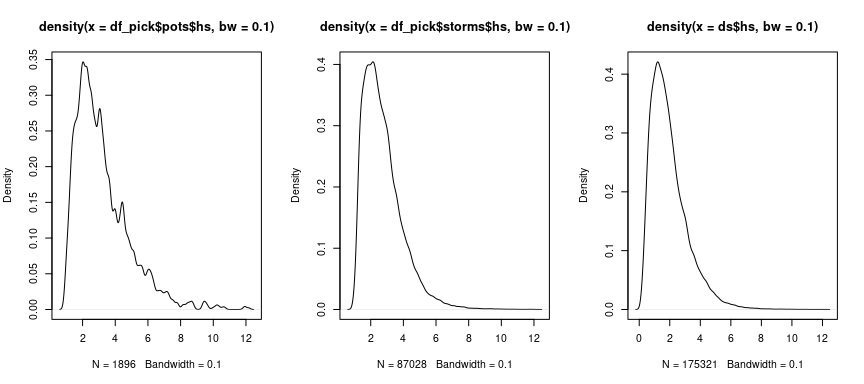
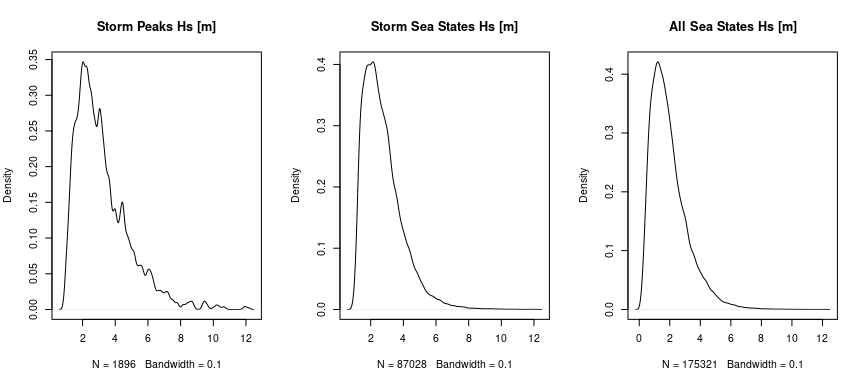
updated README

Changed region(s): [[0.375, 0.0312, 0.6562, 0.0938], [0.0312, 0.0312, 0.3125, 0.0938], [0.75, 0.0312, 0.9688, 0.0938]]

diff --git a/README.md b/README.md
@@ -52,7 +52,7 @@ system.time(df_pick <- peak_picking(ds, peak_picking_thr_model_fml,
     ## [1] "find peaks for combined storms"
 
     ##    user  system elapsed 
-    ##  23.433   0.867  24.302
+    ##  23.851   1.502  25.358
 
 ``` r
 # additional variables were added, i.e. exc, thr, and storm_idx
@@ -72,9 +72,9 @@ visualize_storm_picking(dfin = df_pick, dfinall = ds,
 
 ``` r
 par(mfrow = c(1, 3))
-plot(density(df_pick$pots$hs, bw=.1))
-plot(density(df_pick$storms$hs, bw=.1))
-plot(density(ds$hs, bw=.1))
+plot(density(df_pick$pots$hs, bw=.1), main="Storm Peaks Hs [m]")
+plot(density(df_pick$storms$hs, bw=.1), main="Storm Sea States Hs [m]")
+plot(density(ds$hs, bw=.1), main="All Sea States Hs [m]")
 ```
 
 ![](README_files/figure-gfm/unnamed-chunk-3-1.png)<!-- -->
@@ -83,7 +83,7 @@ plot(density(ds$hs, bw=.1))
 
 ``` r
 # number of bootstrap/resampling steps
-nbstrp <- 100  # e.g. nbstrp = 20 for testing
+nbstrp <- 5  # e.g. nbstrp = 20 for testing
 
 system.time(res_bstrp <- run_bootstrap_storms_pots(df = df_pick$storms,
                                                    group_col = "storm_idx",
@@ -92,7 +92,7 @@ system.time(res_bstrp <- run_bootstrap_storms_pots(df = df_pick$storms,
 ```
 
     ##    user  system elapsed 
-    ##  13.513   0.140  13.656
+    ##   0.686   0.000   0.686
 
 ``` r
 bstrp_storms_lst <- res_bstrp$boot_samples
@@ -124,6 +124,12 @@ plot(density(bstrp_pots_lst[[b+1]]$hs, bw=.1), xlim=c(0,15), ylim=c(0.,.5), main
 
 ![](README_files/figure-gfm/unnamed-chunk-6-1.png)<!-- -->
 
+## Cross-validation for best threshold range
+
+``` r
+# possibly some figure on cross-validation
+```
+
 ## Model the non-stationary storm peaks
 
 ``` r
@@ -142,20 +148,20 @@ nr_of_years <- 48
 thr_range <- list('hs'=c(.8,.9))
 
 # define models
-fml_pp <- ~ te(doy, Pdir, bs = c('cc', 'cc'), k = c(6,8))
-fml_gpd <- list(exc ~ te(doy, Pdir, k=c(6,8), bs=c("cc","cc")),
-                ~ te(doy, Pdir, k=c(6,8), bs=c("cc","cc")))
-fml_ald <- hs ~ te(doy, Pdir, bs=c("cc","cc"), k=c(6,8))
-fml_ald_tm2 <- tm2 ~ te(doy, Pdir, bs=c("cc","cc"), k=c(6,8))
+fml_pp <- ~ te(doy, Pdir, bs = c('cc', 'cc'), k = c(4,6))
+fml_gpd <- list(exc ~ te(doy, Pdir, k=c(4,6), bs=c("cc","cc")),
+                ~ te(doy, Pdir, k=c(4,6), bs=c("cc","cc")))
+fml_ald <- hs ~ te(doy, Pdir, bs=c("cc","cc"), k=c(4,6))
+fml_ald_tm2 <- tm2 ~ te(doy, Pdir, bs=c("cc","cc"), k=c(4,6))
 
 model_fml_thr <- NULL
-model_fml_occ <- NULL
 model_fml_gpd <- NULL
-model_fml_thr[['hs']] <- fml_ald
+model_fml_occ <- NULL
 model_fml_occ[['hs']] <- fml_pp
+model_fml_thr[['hs']] <- fml_ald
 model_fml_gpd[['hs']] <- fml_gpd
-model_fml_thr[['tm2']] <- fml_ald_tm2
 model_fml_occ[['tm2']] <- fml_pp
+model_fml_thr[['tm2']] <- fml_ald_tm2
 model_fml_gpd[['tm2']] <- fml_gpd
 
 syst <- system.time(
@@ -194,11 +200,11 @@ print(syst)
 dhs <- diagnose_margs_preds_density(preds_margs_lst, 'hs', bw=.1, xlim=c(5,40))
 ```
 
-![](README_files/figure-gfm/unnamed-chunk-9-1.png)<!-- -->
+![](README_files/figure-gfm/unnamed-chunk-10-1.png)<!-- -->
 
     ## [1] "summary maxes:"
     ##    Min. 1st Qu.  Median    Mean 3rd Qu.    Max. 
-    ##   9.852  12.102  13.262  14.180  15.086  87.324
+    ##   10.61   12.36   13.60   14.07   15.06   28.58
 
 ``` r
 abline(v = max(df_pick$pots$hs), col = "gray", lwd = 2)
@@ -219,7 +225,7 @@ legend("topright",
        bty = "n")  # removes box around legend
 ```
 
-![](README_files/figure-gfm/unnamed-chunk-9-2.png)<!-- -->
+![](README_files/figure-gfm/unnamed-chunk-10-2.png)<!-- -->
 
 ## Compute joint models testing various thresholds
 
@@ -246,7 +252,7 @@ print(syst)
 diagnose_maxds(models_maxds_thr, maxd_thr, 'hs', 'tm2', ylim=c(-1.5, 1.5))
 ```
 
-![](README_files/figure-gfm/unnamed-chunk-11-1.png)<!-- -->
+![](README_files/figure-gfm/unnamed-chunk-12-1.png)<!-- -->
 
 ## Choose threshold range from test and sample across
 
@@ -269,13 +275,13 @@ nsim <- 200
 diagnose_maxds_fitted(models_maxds[[2]], "tm2", "hs", nsim)
 ```
 
-![](README_files/figure-gfm/unnamed-chunk-13-1.png)<!-- -->
+![](README_files/figure-gfm/unnamed-chunk-14-1.png)<!-- -->
 
 ``` r
 diagnose_maxds_fitted(models_maxds[[2]], "hs", "tm2", nsim)
 ```
 
-![](README_files/figure-gfm/unnamed-chunk-14-1.png)<!-- -->
+![](README_files/figure-gfm/unnamed-chunk-15-1.png)<!-- -->
 
 ## Simulate joint 100yr events
 
@@ -333,7 +339,7 @@ ggplot() +
   theme_minimal()
 ```
 
-![](README_files/figure-gfm/unnamed-chunk-16-1.png)<!-- -->
+![](README_files/figure-gfm/unnamed-chunk-17-1.png)<!-- -->
 
 ## Simulate storms (matching) given simulated storm peaks
 
@@ -385,14 +391,14 @@ print(syst)
 vis_sim_storms(res, storm_idx=10, xlim=c(0,13), ylim=c(0,20))
 ```
 
-![](README_files/figure-gfm/unnamed-chunk-18-1.png)<!-- -->
+![](README_files/figure-gfm/unnamed-chunk-19-1.png)<!-- -->
 
 ``` r
 # plot simulated peaks and storms
 show_sim_pop(res, xlim=c(2,15), ylim=c(0,23))
 ```
 
-![](README_files/figure-gfm/unnamed-chunk-19-1.png)<!-- -->
+![](README_files/figure-gfm/unnamed-chunk-20-1.png)<!-- -->
 
 ## Compute Hmax given RP peak featuring storms
 
@@ -443,7 +449,7 @@ legend("topright", legend = c("Rayleigh", "Forristall", "Prevesto",
        lty = c(1, 1, 2, 2), lwd = c(1, 1, 1, 1, 2))
 ```
 
-![](README_files/figure-gfm/unnamed-chunk-21-1.png)<!-- --> \## Only
+![](README_files/figure-gfm/unnamed-chunk-22-1.png)<!-- --> \## Only
 consider subregions on covariate parameter space (e.g. sector, season,
 …)
 
@@ -468,7 +474,7 @@ rect(xleft = x_min_Pdir_low, xright = x_max_Pdir_low,
      col = adjustcolor("blue", alpha.f = 0.3), border = NA)
 ```
 
-![](README_files/figure-gfm/unnamed-chunk-22-1.png)<!-- -->
+![](README_files/figure-gfm/unnamed-chunk-23-1.png)<!-- -->
 
 ``` r
 # choose lowest and highest regions and create subset
@@ -508,9 +514,9 @@ cat(sprintf("Low sector: %.2f\nHigh sector: %.2f\nOmni: %.2f\n",
             RP_f_hmax_low, RP_f_hmax_high, RP_f_hmax))
 ```
 
-    ## Low sector: 14.21
-    ## High sector: 24.07
-    ## Omni: 24.60
+    ## Low sector: 12.44
+    ## High sector: 22.20
+    ## Omni: 22.54
 
 ## Notes
 
